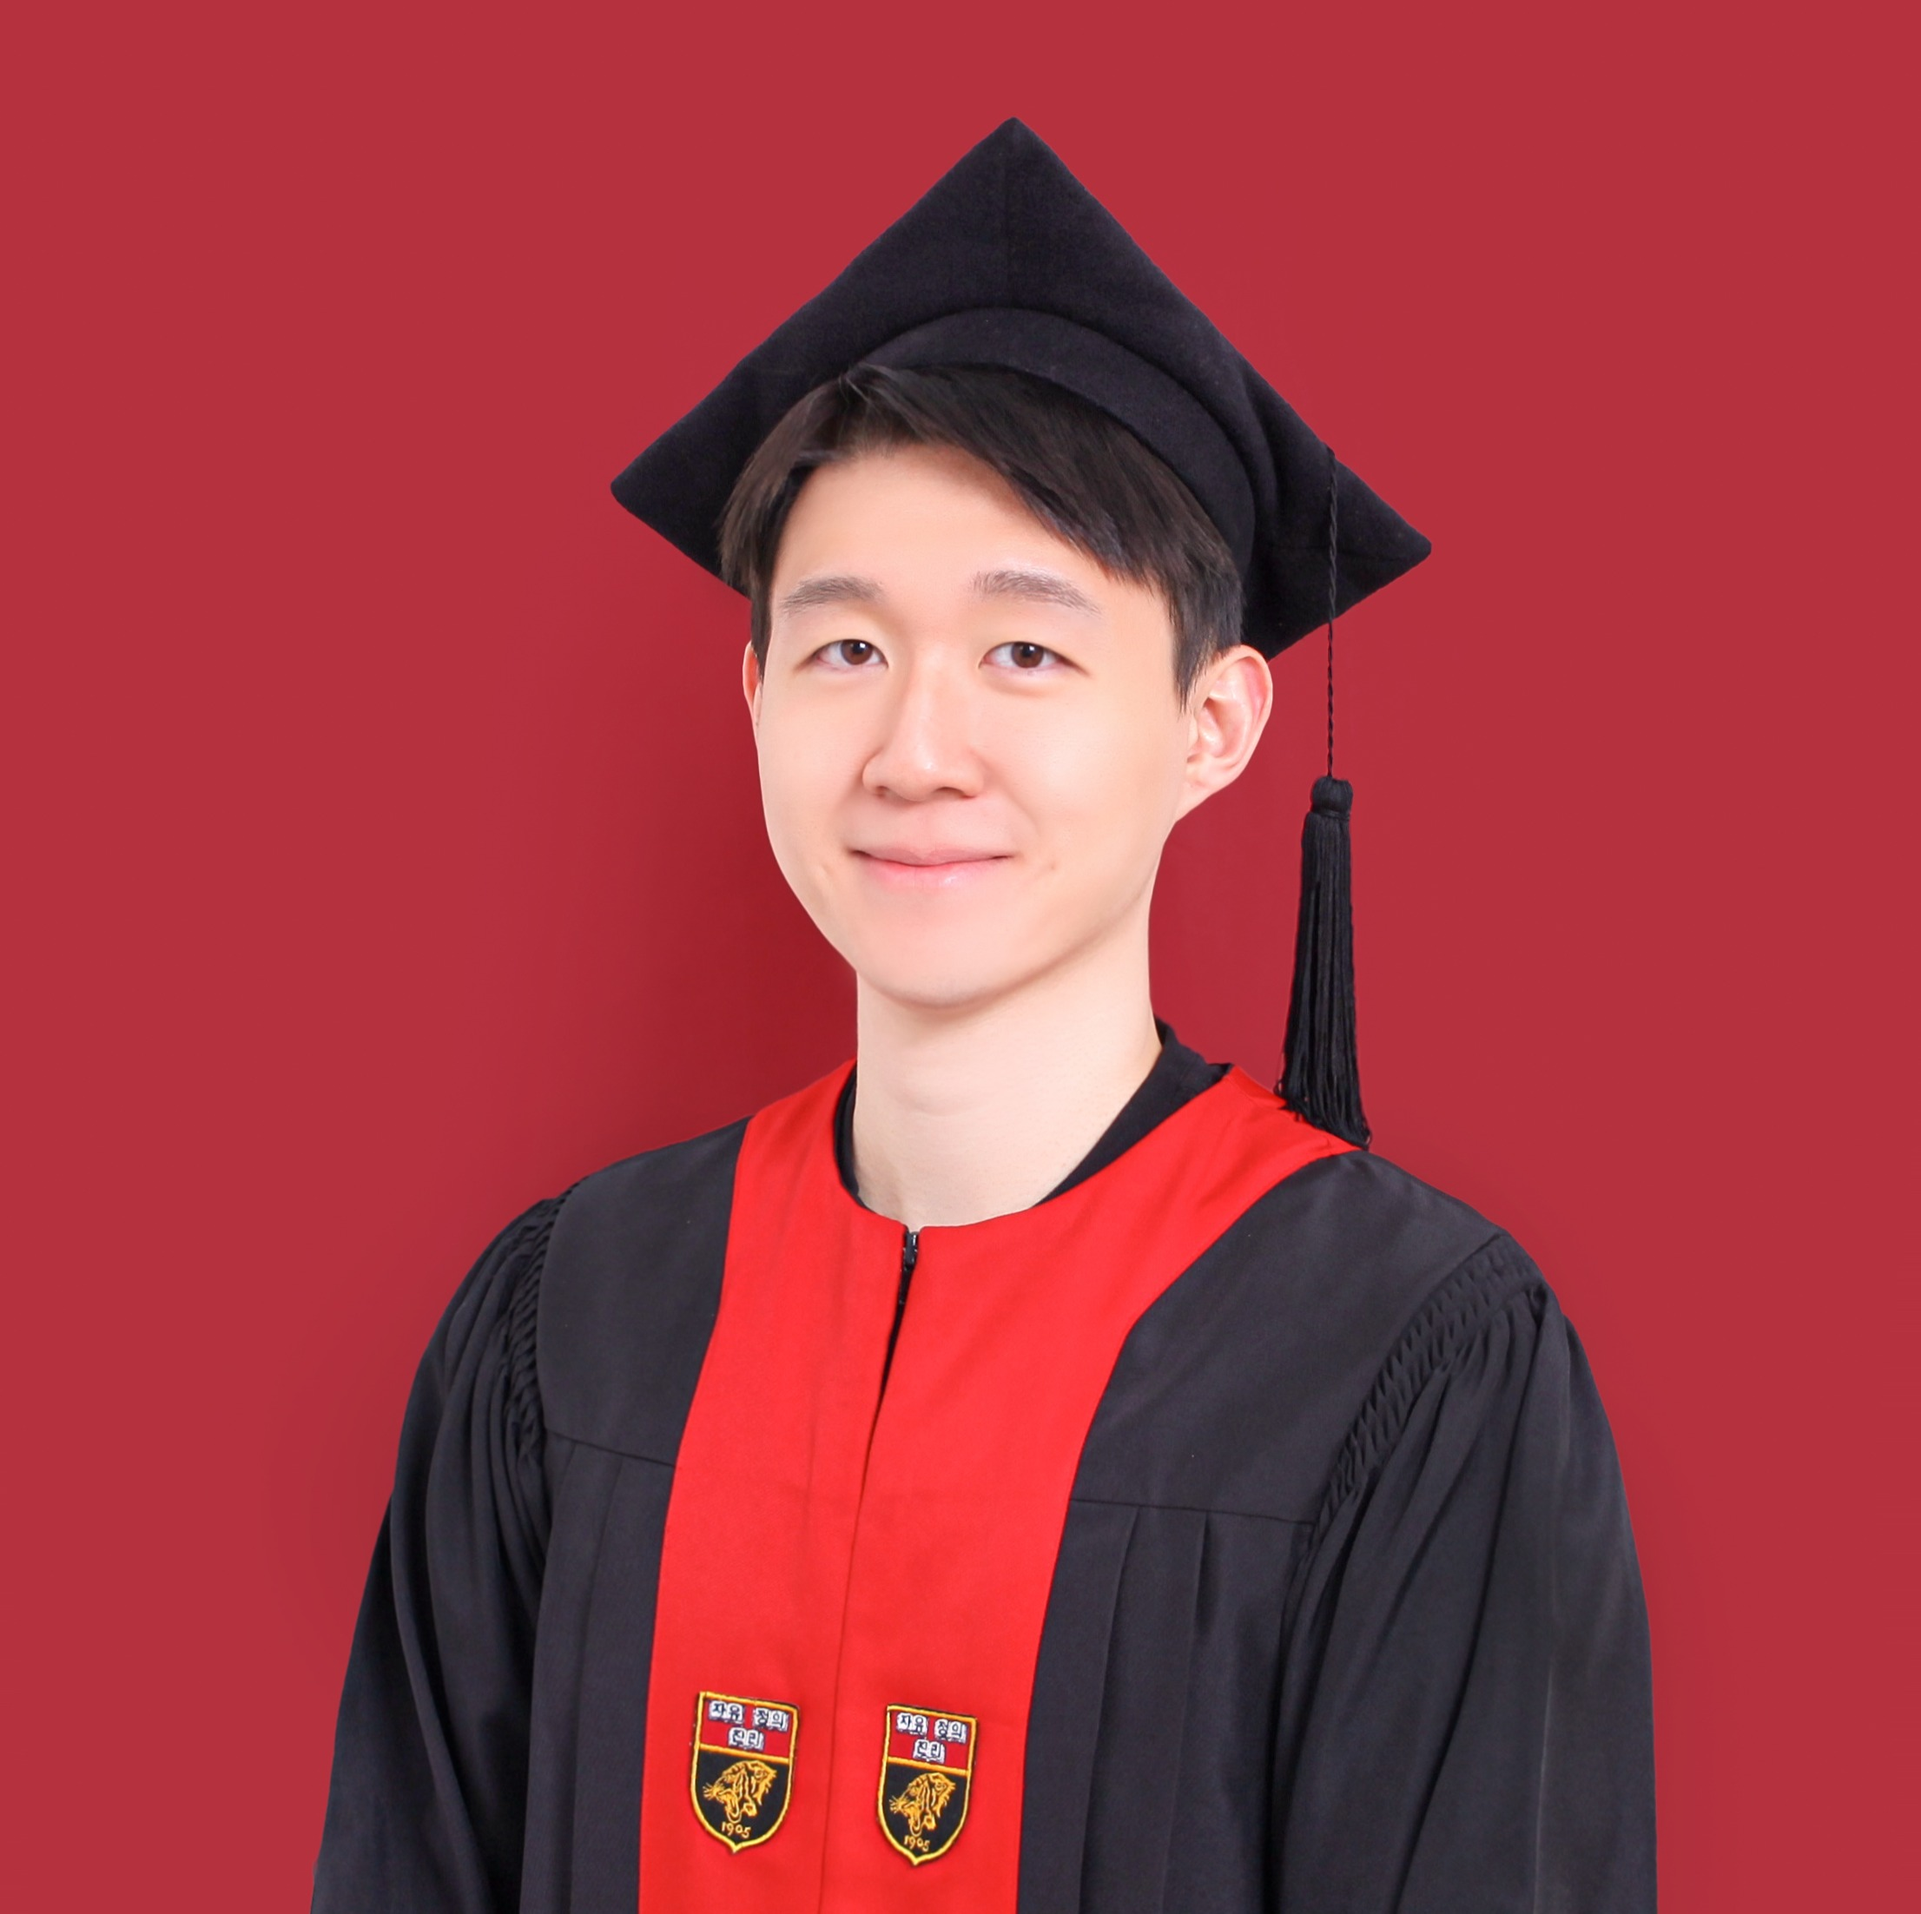
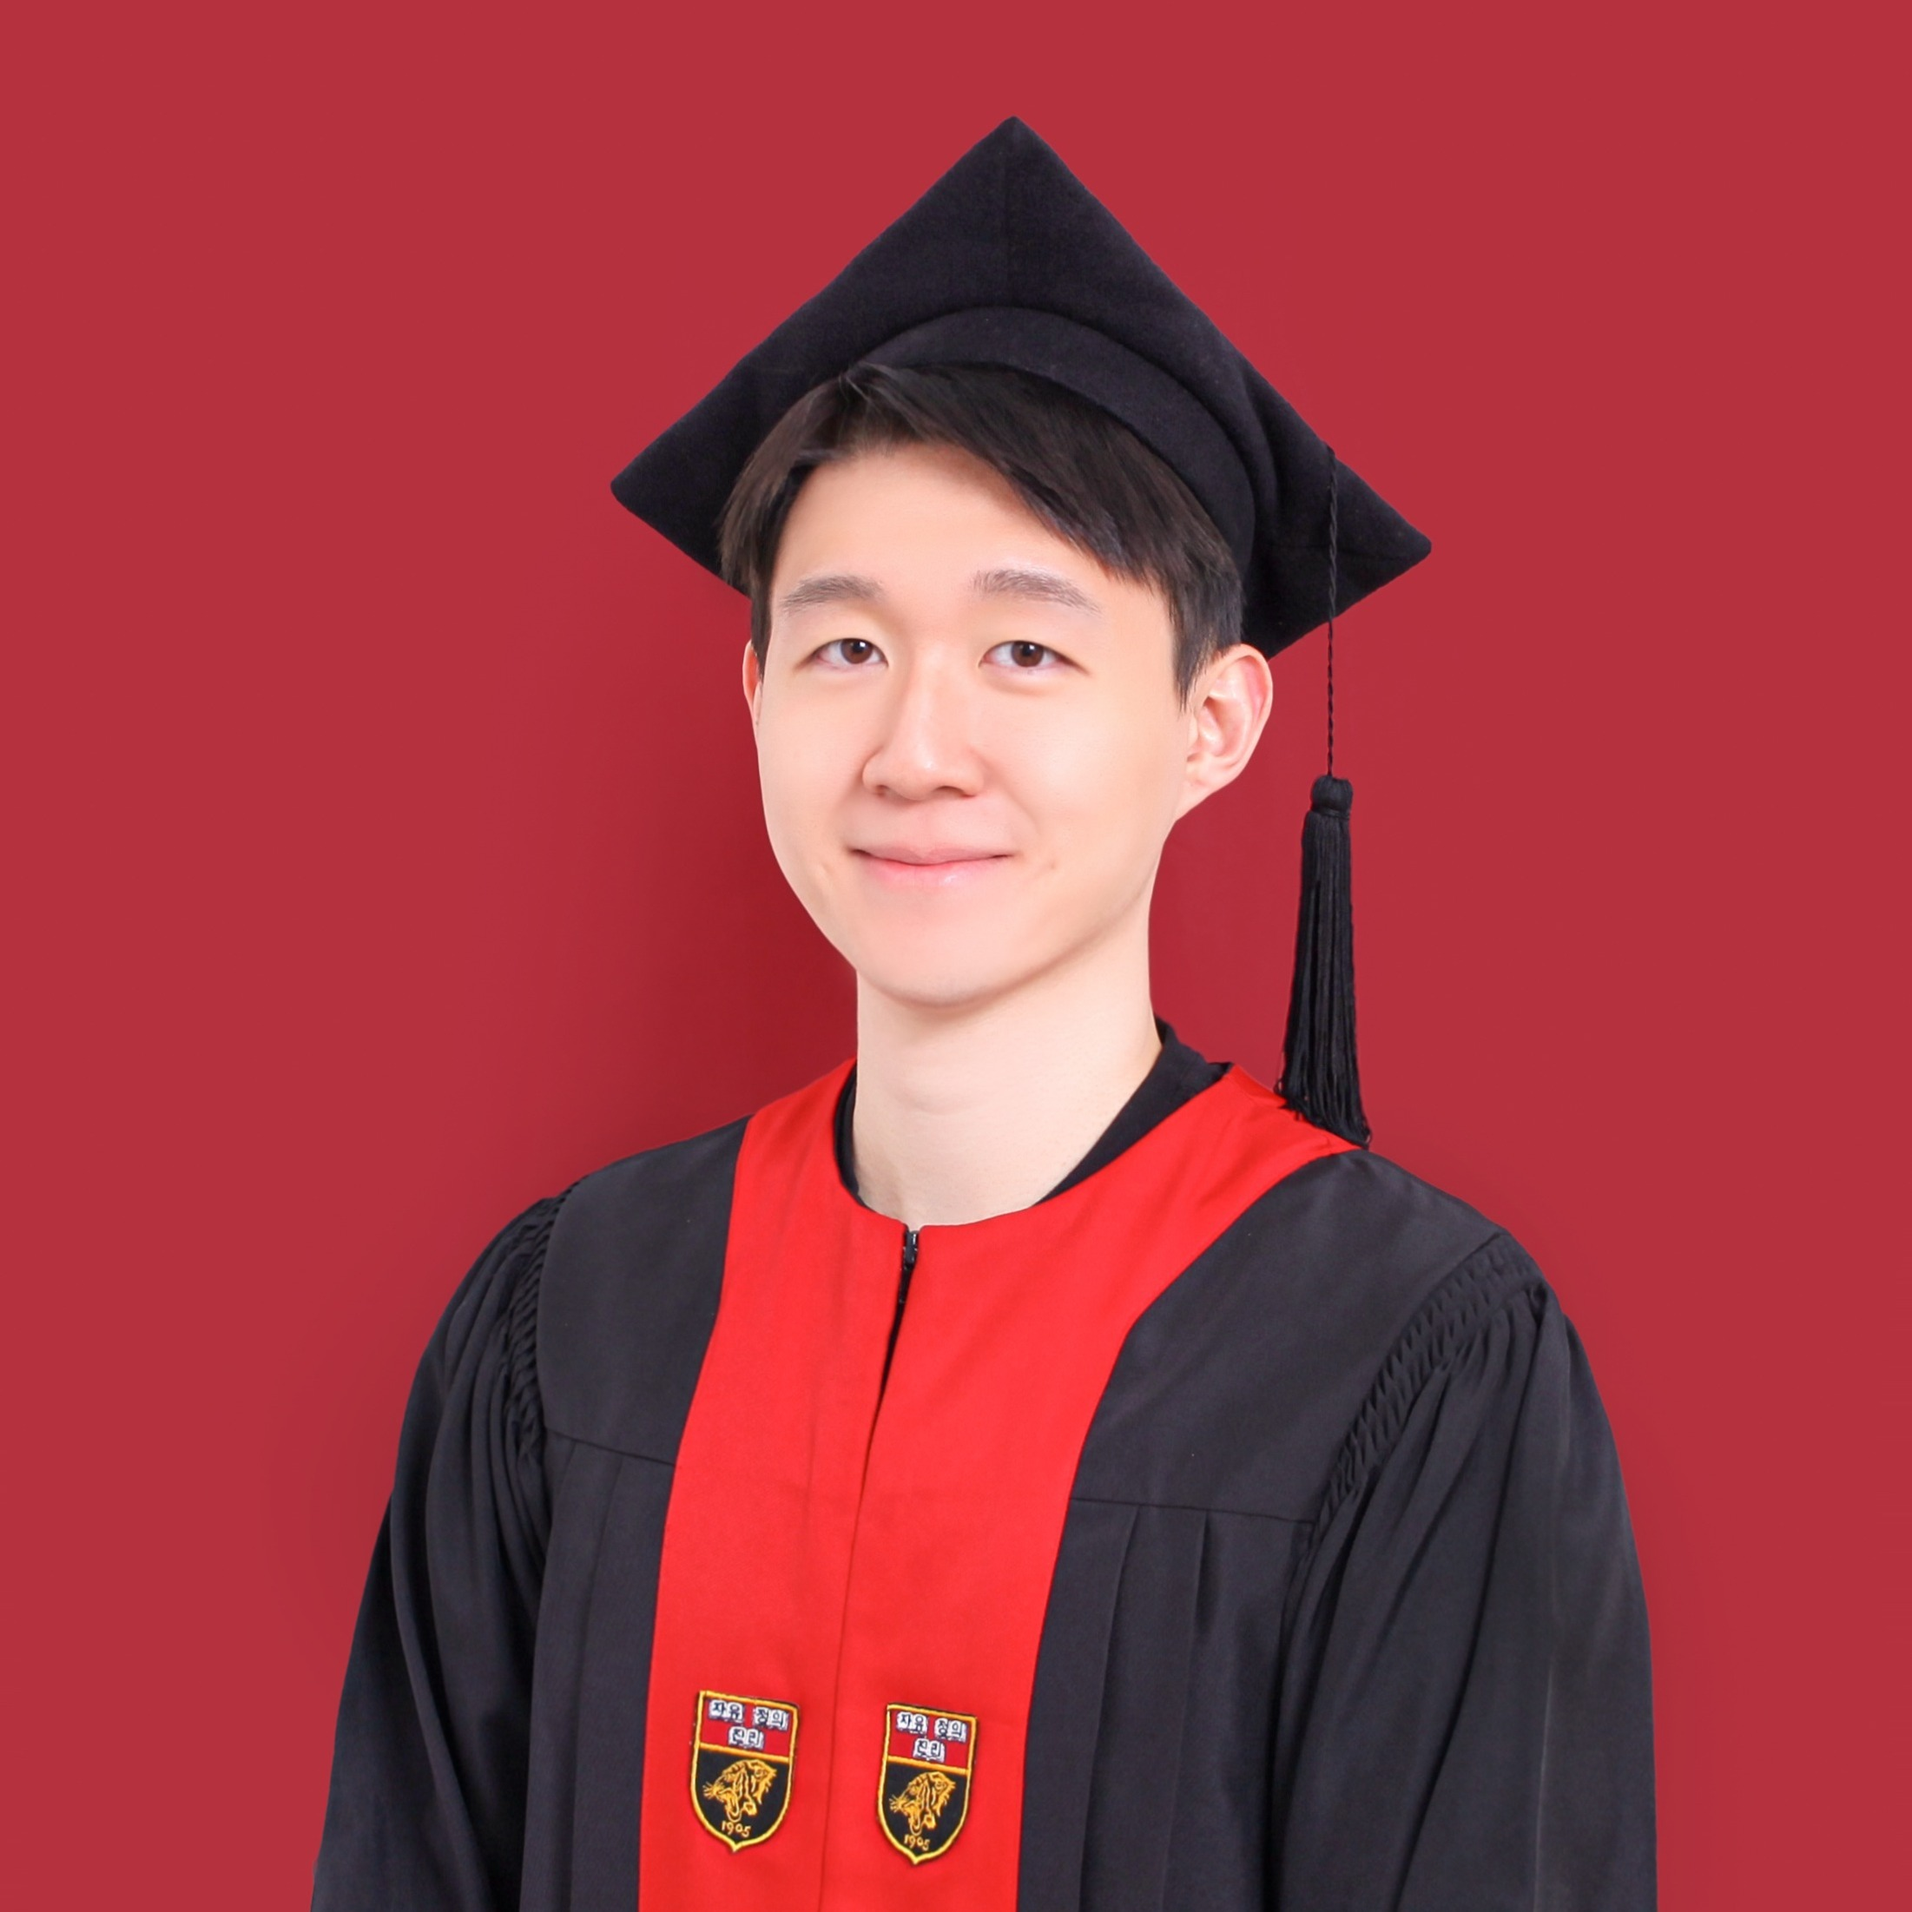
Mar_2nd

diff --git a/index.html b/index.html
@@ -6,15 +6,16 @@
   <meta name="viewport" content="width=device-width,initial-scale=1" />
   <meta name="color-scheme" content="light dark" />
   <title>KyuTark Kim</title>
+  <link rel="canonical" href="https://kyutark.github.io/" />
   <meta name="description" content="KyuTark Kim" />
 
   <meta property="og:title" content="KyuTark Kim" />
   <meta property="og:site_name" content="KyuTark Kim" />
   <meta property="og:type" content="website" />
   <meta property="og:url" content="https://kyutark.github.io/" />
-  <meta property="og:image" content="https://kyutark.github.io/baby_kyutark.jpg" />
+  <meta property="og:image" content="https://kyutark.github.io/kyutark.jpg" />
   
-  <link rel="icon" type="image/jpeg" href="kyutark.JPG" />
+  <link rel="icon" href="/favicon.ico" sizes="any">
 
   <link rel="preconnect" href="https://fonts.googleapis.com">
   <link rel="preconnect" href="https://fonts.gstatic.com" crossorigin>
@@ -25,9 +26,11 @@
   <script type="application/ld+json">
     {
       "@context": "https://schema.org",
-      "@type": "WebSite",
+      "@type": "Person",
       "name": "KyuTark Kim",
-      "url": "https://kyutark.github.io/"
+      "url": "https://kyutark.github.io/",
+      "image": "https://kyutark.github.io/kyutark.jpg",
+      "sameAs": ["https://github.com/Kyutark", "https://kyutkim01.tistory.com/"]
     }
     </script>
 </head>
@@ -47,7 +50,7 @@
         </div>
         <ul class="contact-links">
           <li>
-            <a href="mailto:kyutkim01@gmail.com" target="_blank" rel="noopener noreferrer" class="custom-link">
+            <a href="mailto:kyutkim01@gmail.com" rel="noopener noreferrer" class="custom-link">
               <img src="gmail-icon.png" alt="" aria-hidden="true" class="icon" />
               Email
             </a>
@@ -59,8 +62,8 @@
             </a>
           </li>
           <li>
-            <a href="https://your-blog-url.com" target="_blank" rel="noopener noreferrer" class="custom-link">
-              <img src="tstory-icon.png" alt="" aria-hidden="true" class="icon" />
+            <a href="https://kyutkim01.tistory.com/" target="_blank" rel="noopener noreferrer" class="custom-link">
+              <img src="tistory-icon.png" alt="" aria-hidden="true" class="icon" />
               Blog
             </a>
           </li>
@@ -84,7 +87,7 @@
         <ul>
           <li>
             <strong>KAIST</strong>
-            <time datetime="2026-03" class="date">Mar 2026 -</time>
+            <time datetime="2026-03" class="date">Mar 2026</time> -
             <span class="sub-detail">Graduate School of Engineering Biology</span>
           </li>
           <li>
@@ -98,7 +101,7 @@
           </li>
           <li>
             <strong>Military Service</strong>
-            <time datetime="2022-03" class="date">Mar 2022 - Sep 2023</time>
+            <time datetime="2022-03" class="date">Mar 2022</time> - <time datetime="2023-09" class="date">Sep 2023</time>
             <span class="sub-detail">Republic of Korea Army, 701<sup>st</sup> Commando Regiment</span>
           </li>
         </ul>
@@ -109,20 +112,26 @@
         <ul>
           <li>
             <strong>Laboratory of Quantitative and Computational Biology</strong>, KAIST
-            <time datetime="2025-07" class="date">Jul 2025 - Aug 2025</time>
+            <time datetime="2025-06" class="date">Jun 2025</time> - <time datetime="2026-02" class="date">Feb 2026</time>
           </li>
           <li>
             <strong>Computational and Synthetic Biology Laboratory</strong>, Korea University
-            <time datetime="2024-07" class="date">Jul 2024 - May 2025</time>
+            <time datetime="2024-07" class="date">Jul 2024</time> - <time datetime="2025-05" class="date">May 2025</time>
           </li>
           <li>
             <strong>Food Hygiene and Safety Laboratory</strong>, Korea University
-            <time datetime="2023-09" class="date">Sep 2023 - Jun 2024</time>
+            <time datetime="2023-09" class="date">Sep 2023</time> - <time datetime="2024-06" class="date">Jun 2024</time>
           </li>
           <li class="spaced">
             <strong>Institute of Biomedical and Food Safety</strong>, Korea University
-            <time datetime="2021-03" class="date">Mar 2021 - Sep 2021</time>
+            <time datetime="2021-03" class="date">Mar 2021</time> - <time datetime="2021-09" class="date">Sep 2021</time>
           </li>
+        </ul>
+      </section>
+
+      <section>
+        <h2>Contributions</h2>
+        <ul>
           <li>
             <strong>Preprint</strong>, bioRxiv 
             (<a href="https://doi.org/10.64898/2026.01.24.701546" target="_blank" rel="noopener noreferrer" class="clean-link">doi: 10.64898/2026.01.24.701546</a>)
@@ -130,12 +139,12 @@
             <span class="sub-detail"><i>A Structural Landscape of Fungal Allergens with Epitope-Level Resolution Reveals Cross-Kingdom Structural Similarity</i></span>
           </li>
           <li>
-            <strong>Poster Presentation</strong>, RECOMB 2025
+            <strong>Poster</strong>, RECOMB 2025
             <time datetime="2025-04" class="date">Apr 2025</time>
-            <span class="sub-detail"><i>Pan-Transcriptomic Pipeline for Public and In-house RNA-seq data</i></span>
+            <span class="sub-detail"><i>Pan-Transcriptomic Pipeline for Public and In-house RNA-seq Data</i></span>
           </li>
           <li>
-            <strong>Patent Application</strong>, Korean Intellectual Property Office
+            <strong>Patent Application</strong>, KIPO
             <time datetime="2025-02" class="date">Feb 2025</time>
             <span class="sub-detail"><i>System for Detecting Allergenic Species</i></span>
           </li>
@@ -151,12 +160,12 @@
           </li>
           <li>
             <strong>Presidential Science Scholarship</strong>, Korea Student Aid Foundation
-            <time datetime="2021" class="date">Spring 2021 - Fall 2024</time>
+            <time datetime="2021-03" class="date">Mar 2021</time> - <time datetime="2025-02" class="date">Feb 2025</time>
             <span class="sub-detail">Awarded by President Moon Jae-in, Republic of Korea</span>
           </li>
           <li>
             <strong>Dean's List</strong>, Korea University
-            <time class="date">6 semesters: 2019-2025</time>
+            6 semesters: <time datetime="2019" class="date">2019</time>-<time datetime="2025" class="date">2025</time>
           </li>
           <li>
             <strong>Best Research Award</strong>, Institute of Biomedical and Food Safety
